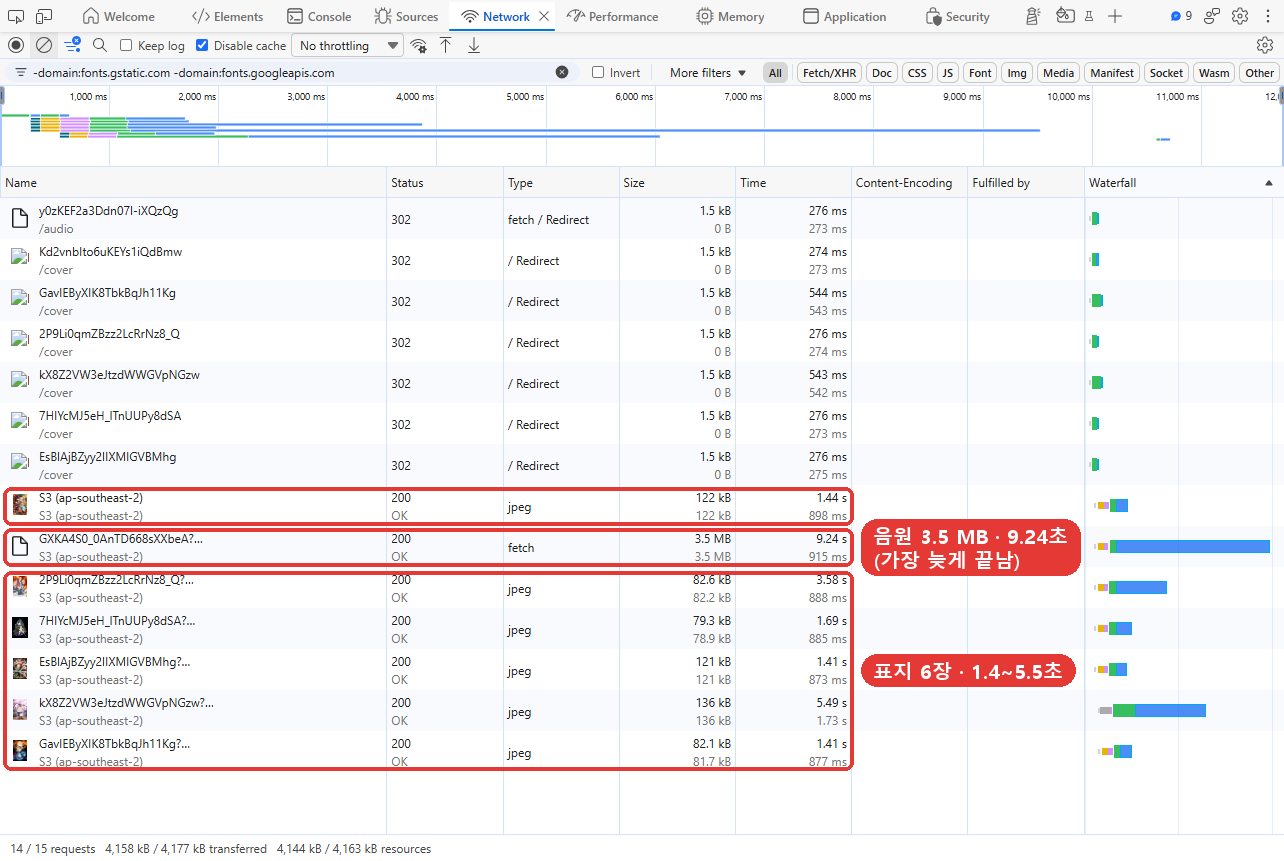
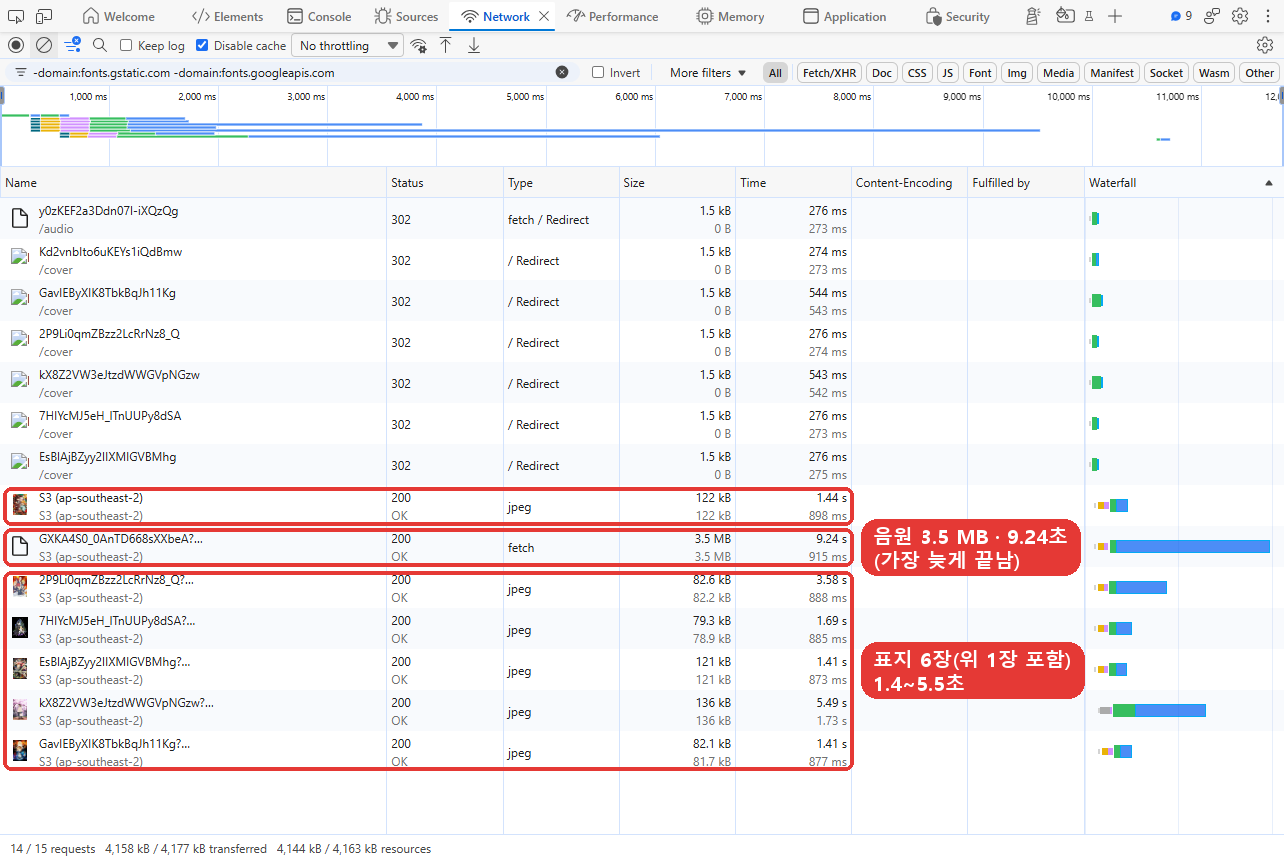
docs(105): review fixes (step-0 baseline with goal metrics, capture labels, one-line summary, glossary)

Changed region(s): [[0.6542, 0.7247, 0.8723, 0.8153]]

diff --git a/docs/performance.md b/docs/performance.md
@@ -1,8 +1,10 @@
 # SongRush 성능 보고서: 곡 준비 대기 시간
 
+> **한 줄 요약:** 곡마다 음원을 받느라 5~21초를 기다렸고, 주원인은 원본 고음질 그대로인 음원(곡당 3.6 MB)입니다. 원인을 하나씩 골라 고치고 다시 재서, 그 과정을 5장에 단계별로 기록합니다.
+
 > **문제 → 측정 → 원인 → 개선 후보 → 개선 단계** 순서의 요약본입니다. 캡처의 빨간 표시는 설명을 위해 덧붙인 것이고, 표시 없는 원본은 상세본에 있습니다. 근거, 측정의 한계, 재현 명령은 [상세본](performance-detail.md)에 있습니다.
 >
-> 용어: **중앙값** 값을 줄 세운 가운데 값 · **kbps** 소리 1초당 데이터 양(클수록 음질과 파일 크기가 큼) · **S3** AWS 파일 저장소 · **302** 서버가 "실제 파일은 저 주소에 있다"고 돌려보내는 응답 · **gzip** 보내기 전에 파일을 압축하는 방식
+> 용어: **중앙값** 값을 줄 세운 가운데 값 · **kbps** 소리 1초당 데이터 양(클수록 음질과 파일 크기가 큼) · **S3** AWS 파일 저장소 · **302** 서버가 "실제 파일은 저 주소에 있다"고 돌려보내는 응답 · **gzip** 보내기 전에 파일을 압축하는 방식 · **Content-Encoding** 응답이 어떤 방식으로 압축됐는지 표시하는 칸 · **CDN** 사용자 가까이에 파일 사본을 두는 배포망 · **curl** 주소 하나를 명령줄에서 직접 요청해 보는 도구
 
 ## 1. 문제
 
@@ -11,7 +13,7 @@
 ![게임 화면: 음원을 불러오는 중](perf/annotated/2026-11-10-game-choice-loading-annotated.png)
 ![개발자 도구 Network 탭: 같은 곡의 준비 중](perf/annotated/2026-11-10-devtools-choice-loading-annotated.png)
 
-*캡처 A. 객관식 곡의 준비 중(실제 사이트, 2026-11-10 10:00 KST). 아래 개발자 도구 화면에서 표지 6장 중 4장은 받았지만, 음원(Type `fetch`, Status 200)은 3.5 MB 중 **244 kB**만 받은 상태입니다. 위 게임 화면은 그 약 2초 뒤입니다.*
+*캡처 A. 객관식 곡의 준비 중(실제 사이트, 2026-11-10 10:00 KST). 아래 개발자 도구 화면에서 표지 6장 중 4장은 받았지만, 음원은 전체 3.5 MB(다 받은 뒤의 캡처 B에서 확인) 중 **244 kB**만 받은 상태입니다. 위 게임 화면은 그 약 2초 뒤입니다.*
 
 ## 2. 측정
 
@@ -54,7 +56,7 @@
 | 원인 | 영향 | 근거 |
 |---|---|---|
 | **음원이 원본 고음질 그대로**: 곡당 중앙값 3.6 MB, 316 kbps | 모든 곡의 준비 시간 (**주원인**) | 캡처 B. 90초를 넘는 부분은 전체의 10%뿐이라 길이보다 음질이 크기를 좌우함 ([상세 4.1](performance-detail.md#41-음원-파일이-필요-이상으로-크다-주원인)) |
-| **서버와 저장소가 시드니에 있음** | 모든 다운로드 속도의 상한. 음원·표지마다 서버를 한 번 거치는 데 0.27~0.54초 | 캡처 A의 302 행. 저장소 지역은 계정상 바꾸기 어렵고 CDN은 쓰지 않기로 해서, 보내는 양을 줄이는 것이 첫 대응 ([상세 4.2](performance-detail.md#42-서버와-저장소가-멀다-속도의-상한)) |
+| **서버와 저장소가 시드니에 있음** | 모든 다운로드 속도의 상한. 음원·표지마다 서버를 한 번 거치는 데 0.27~0.54초 | 캡처 A의 302 행. 저장소 지역은 계정상 바꾸기 어렵고 CDN은 계정 제약으로 쓸 수 없어서, 보내는 양을 줄이는 것이 첫 대응 ([상세 4.2](performance-detail.md#42-서버와-저장소가-멀다-속도의-상한)) |
 | **다음 곡을 미리 받지 않음** | 곡 사이 대기 전체 | 서버가 정답 공개가 끝난 뒤에야 다음 곡 준비를 보냄 ([상세 4.4](performance-detail.md#44-다음-곡을-미리-받지-않는다)) |
 | **표지가 화면에 비해 큼** | 객관식 곡당 1.5~2.0 MB를 더 받음. 준비 시간에 대한 영향은 측정으로 확인되지 않음 | [상세 4.3](performance-detail.md#43-표지-이미지가-화면에-비해-크다-객관식의-전송량) |
 | **JS·CSS가 압축되지 않음** | 첫 화면 로딩(1.8~3.9초)만 | 캡처 D |
@@ -72,24 +74,26 @@
 | 음원이 원본 고음질 그대로 | 앞 90초만, 96 kbps로 다시 저장 | 곡당 3.6 MB → 약 1.1 MB. 느린 회선에서 약 20초 → 약 6초 |
 | 다음 곡을 미리 받지 않음 | 곡이 재생되는 동안 다음 곡을 미리 받기 | 곡 사이 대기가 최소치(정답 공개 5초 + 예고 3초 = 약 8초)에 가까워짐 |
 | 표지가 화면에 비해 큼 | 가로 320 px JPEG로 줄이기 | 객관식 곡당 1.5~2 MB → 약 0.15 MB |
-| JS·CSS 압축 없음 | 웹 서버(Nginx) gzip 켜기 | JS 367 kB → 약 115 kB |
+| JS·CSS 압축 없음 | 웹 서버(Nginx) gzip 켜기 | JS 367 KB → 약 115 KB |
 
 - **목표:** 밤 11시대에도 모든 곡이 시작 전에 준비되고, 앞부분을 놓치는 곡이 없고, 곡 사이 대기가 10초 이하.
 - **비교 방법:** 단계마다 같은 도구, 같은 PC로 최소 3회 재고, 밤 11시대를 포함해 같은 시간대끼리 비교합니다([상세 비교 규칙](performance-detail.md#비교-규칙)).
 
 ## 5. 개선 단계
 
-원인을 하나씩 골라 고치고, 고칠 때마다 다시 재서 기록합니다.
+원인을 하나씩 골라 고치고, 고칠 때마다 다시 재서 기록합니다. 현재는 0단계(개선 전 기준값)까지 기록했고, 다음 단계는 4장의 원인 중에서 골라 진행합니다.
 
-| 단계 | 고른 원인 | 한 일 | 채팅 음원 완료 (전 → 후) | 객관식 음원 완료 (전 → 후) | 곡 사이 대기 (전 → 후) |
-|---|---|---|---|---|---|
-| 0 | (기준값) | — | 7.6초 | 7.0초 | 13~30초 |
+| 단계 | 고른 원인 | 한 일 | 음원 완료 중앙값 (채팅 / 객관식) | 밤 11시대 음원 완료 (채팅 / 객관식) | 곡 시작 전 준비 완료 | 앞부분을 놓친 곡 | 곡 사이 대기 |
+|---|---|---|---|---|---|---|---|
+| 0 | (기준값) | — | 7.6초 / 7.0초 | 18.9초 / 21.2초 (1회) | 37/40 | 1/40 | 13~30초 |
 
-*0단계는 기준값 4회, 20곡씩을 모은 중앙값입니다([상세 3.1](performance-detail.md#31-4회-측정-요약)).*
+*0단계: 음원 완료는 기준값 4회 40곡(형식별 20곡)을 모은 중앙값, 곡 사이 대기는 실행별 중앙값의 범위(최소~최대)입니다. 밤 11시대 측정은 아직 1회뿐이라, 개선 전에 2회 더 잽니다([상세 3.1](performance-detail.md#31-4회-측정-요약), [상세 비교 규칙](performance-detail.md#비교-규칙)).*
 
-<!-- 단계를 추가할 때 이 아래에 같은 형식으로 붙입니다:
+<!-- 단계를 추가할 때: (1) 위 표에 한 행 추가, (2) 아래 형식의 소절 추가
 ### N단계: <고른 원인>
-- **왜 이 원인을 골랐나:** …
+- **왜 이 원인을 골랐나:** (4장의 어떤 측정·캡처 때문인지)
 - **한 일:** …
-- **결과:** 전/후 표, 개발자 도구 캡처(전/후 나란히)
+- **다시 잰 조건:** 횟수, 시간대(밤 11시대 포함 여부)
+- **결과:** 예상(4장) vs 실제, 전/후 개발자 도구 캡처
+- **다음 단계로 고를 원인과 이유:** …
 -->

diff --git a/docs/performance-detail.md b/docs/performance-detail.md
@@ -2,7 +2,7 @@
 
 > 요약본은 [performance.md](performance.md)입니다. 이 문서는 측정 방법, 근거, 한계, 재현 명령까지 모두 담은 상세본입니다.
 
-> 순서: **1. 문제 → 2. 측정 방법 → 3. 기준값 → 4. 원인 분석 → 5. 개선 계획 → 6. 개선 기록**
+> 순서: **1. 문제 → 2. 측정 방법 → 3. 기준값 → 4. 원인 분석 → 5. 개선 후보 → 6. 개선 기록**
 > 이 문서의 숫자는 모두 `perf/results/`의 결과 파일이나 부록 A의 재현 명령과 그 출력에서 왔습니다. 기준값 측정 시각은 한국 시간 2026-11-09 23:26 ~ 11-10 01:07입니다. 개발자 도구 캡처(캡처 A~D)의 수치는 그 이미지에서 읽은 값입니다.
 
 ---
@@ -251,14 +251,14 @@
 1. **기준값 보강:** 개선 전에 밤 11시대 기준값을 2회 더 재서, 느린 경우의 표본을 3회 이상으로 만듭니다.
 2. **같은 조건으로 재기:** `perf/run.py`, 같은 PC와 회선, 채팅·객관식 각 5곡.
 3. **같은 시간대끼리 비교:** 개선마다 **최소 3회** 재고, **밤 11시대 1회 이상**을 포함해 기준값의 같은 시간대와 비교합니다.
-4. **기록:** `perf/README.md`에 한 줄 추가, 그래프와 개발자 도구 캡처를 다시 만들고, 요약본의 개선 기록 표에 전/후를 적습니다.
+4. **기록:** `perf/README.md`에 한 줄 추가, 그래프와 개발자 도구 캡처를 다시 만들고, 요약본의 [개선 단계](performance.md#5-개선-단계) 표에 전/후를 적습니다.
 5. **품질 확인:** 음원 음질(96 kbps)과 표지 화질은 실제 게임 화면과 청취로 확인한 뒤 적용합니다.
 
 ---
 
 ## 6. 개선 기록
 
-개선 전후 비교는 요약본 [performance.md](performance.md)의 "개선 기록" 표에 적습니다. 개선마다 쓴 그래프와 캡처도 그 표에서 링크합니다.
+개선 전후 비교는 요약본의 [개선 단계](performance.md#5-개선-단계)에 단계마다 적습니다. 개선마다 쓴 그래프와 캡처도 거기서 링크합니다.
 
 ---
 
